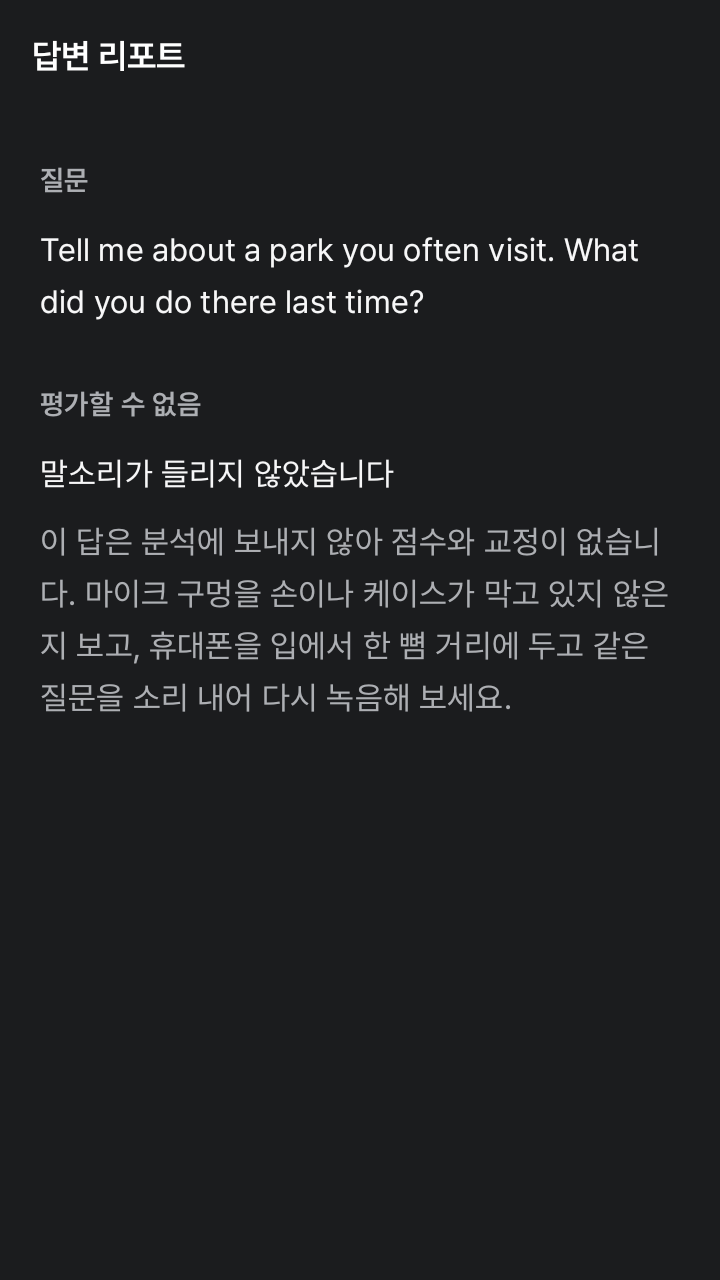
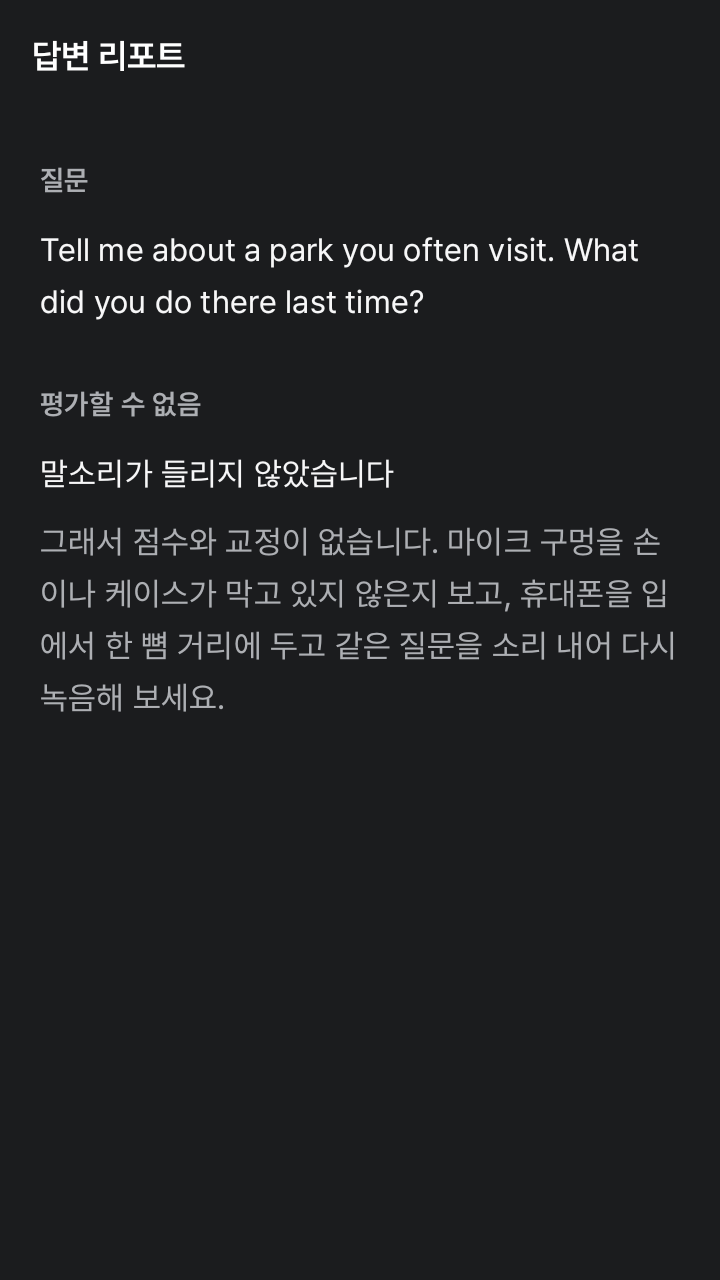
[silent-answer] 무음 안내 문구가 보냈는지를 말하지 않게 하고 보낸 무음 리포트를 찍는다 (#241)
앱이 보내지 않은 답과 모델이 무음으로 돌려준 답이 같은 안내를 쓰는데,
문구가 "분석에 보내지 않아"라고 해서 분석 모델 줄과 어긋났다.

Changed region(s): [[0.0611, 0.4062, 0.9472, 0.5625]]

diff --git a/ui/feature-report/src/commonMain/kotlin/io/github/nosorae/aiopic/ui/featurereport/ReportSamples.kt b/ui/feature-report/src/commonMain/kotlin/io/github/nosorae/aiopic/ui/featurereport/ReportSamples.kt
@@ -168,6 +168,9 @@ internal object ReportSamples {
     /** 녹음 내내 말소리가 없어 보내지 않고 끝낸 답(#241). */
     val answerSilent = AnswerReportUiState(loading = false, answer = answer(2, AnswerAnalysis.Unscorable(null, UnscorableReason.Silent)), names = names)
 
+    /** 보냈지만 모델이 말소리를 못 찾아 무음으로 돌려준 답(#241). 분석 모델 줄과 안내 문구가 함께 보인다. */
+    val answerSilentSent = AnswerReportUiState(loading = false, answer = answer(2, AnswerAnalysis.Unscorable(flash, UnscorableReason.Silent)), names = names)
+
     val answerPending = AnswerReportUiState(loading = false, answer = answer(3, AnswerAnalysis.Pending), names = names)
 
     /** 연결이 끊겨 결과를 받지 못했다(#203). */

diff --git a/ui/feature-report/src/commonMain/kotlin/io/github/nosorae/aiopic/ui/featurereport/AnswerReportScreen.kt b/ui/feature-report/src/commonMain/kotlin/io/github/nosorae/aiopic/ui/featurereport/AnswerReportScreen.kt
@@ -123,6 +123,7 @@ private fun LazyListScope.answerContent(
             SectionTitle(stringResource(Res.string.answer_unscorable))
             Paragraph(stringResource(analysis.reason.text))
             // 말소리가 없던 답은 녹음을 다시 해야 하니 마이크와 거리를 먼저 안내한다(#241).
+            // 앱이 보내지 않은 답과 모델이 무음으로 돌려준 답이 모두 여기 오니 문구는 보냈는지를 말하지 않는다.
             Paragraph(stringResource(if (analysis.reason == UnscorableReason.Silent) Res.string.answer_silent_help else Res.string.answer_unscorable_help), secondary = true)
         }
 

diff --git a/ui/feature-report/src/androidHostTest/kotlin/io/github/nosorae/aiopic/ui/featurereport/ReportScreenshotTest.kt b/ui/feature-report/src/androidHostTest/kotlin/io/github/nosorae/aiopic/ui/featurereport/ReportScreenshotTest.kt
@@ -116,6 +116,8 @@ class ReportScreenshotTest {
 
     @Test fun answer_silent() = answer(ReportSamples.answerSilent)
 
+    @Test fun answer_silent_sent() = answer(ReportSamples.answerSilentSent)
+
     @Test fun answer_silent_dark() = answer(ReportSamples.answerSilent, dark = true)
 
     @Config(fontScale = 2f)
